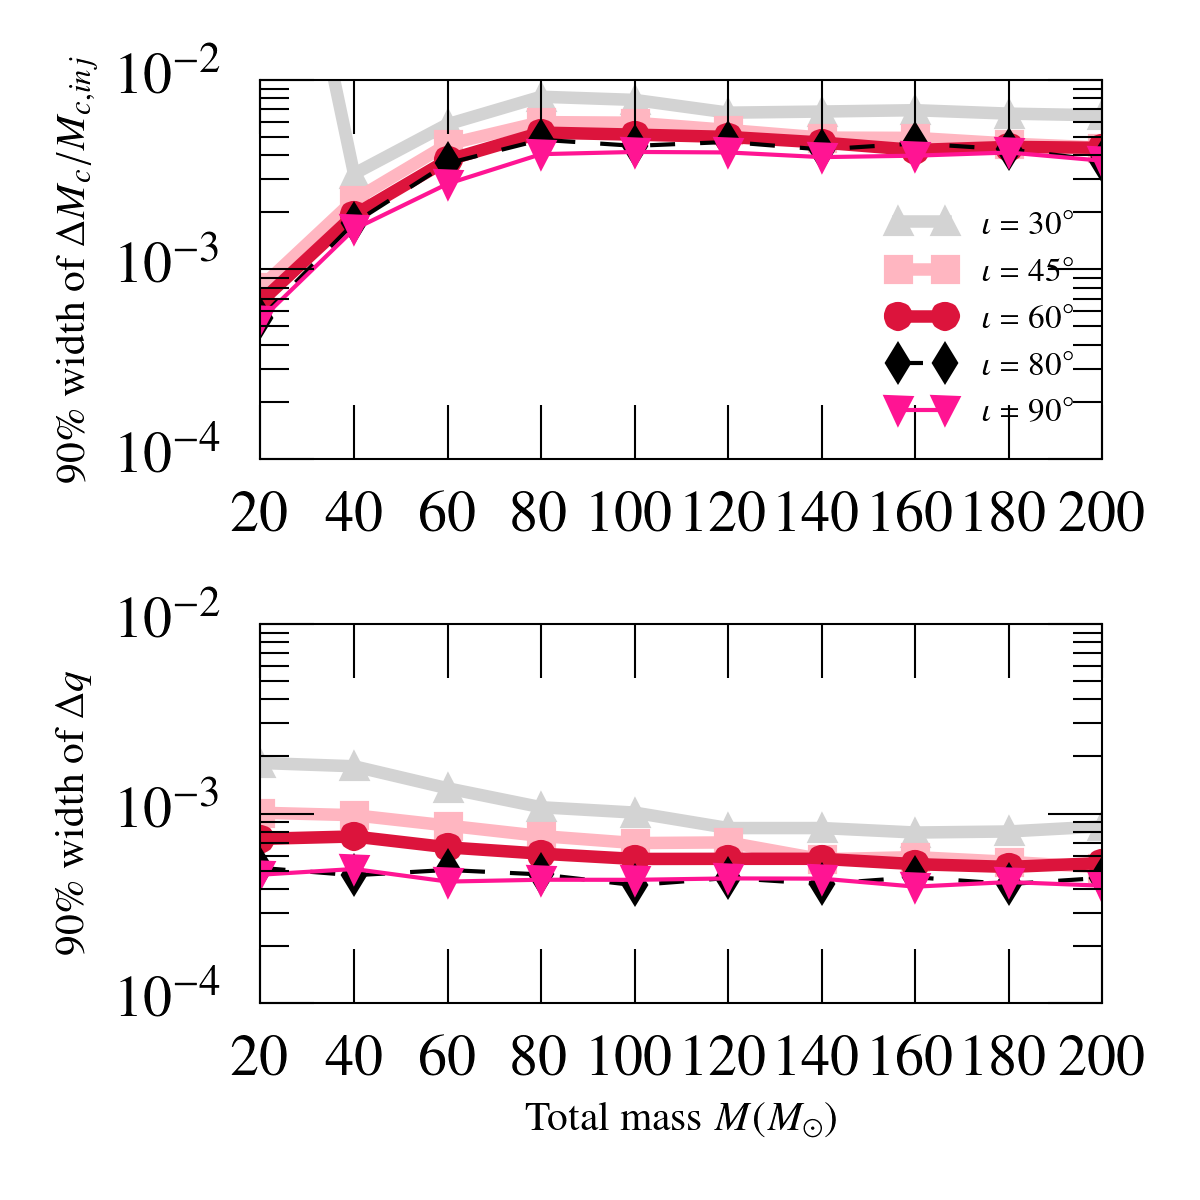
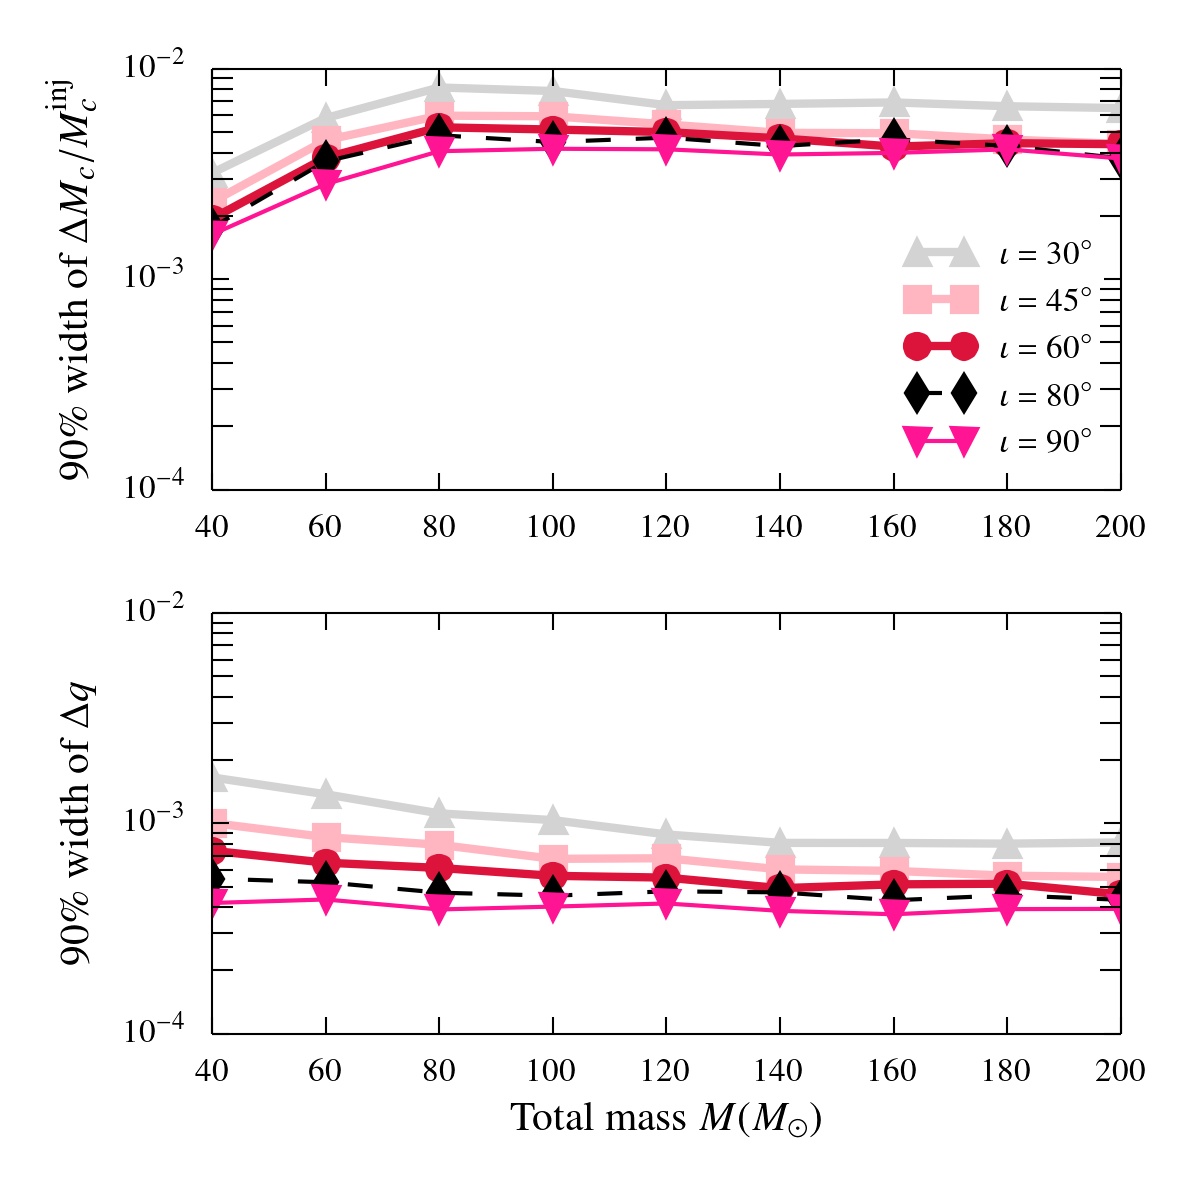
updated figure 3b

diff --git a/scripts/mk_statisticalerror_plot.py b/scripts/mk_statisticalerror_plot.py
@@ -1,7 +1,8 @@
 import matplotlib as mpl
 mpl.use('Agg')
-import numpy as np
+import os, sys, numpy as np
 import matplotlib.pyplot as plt
+sys.path.insert(0, '../src')
 import plotsettings
 from matplotlib import rc
 mpl.rc('text.latex', preamble = '\usepackage{txfonts}')
@@ -26,7 +27,7 @@ from scipy import interpolate
 col = 'k'
 
 fname_vec_q = ['../data/90_percent_width_9dim_DeltaMcbyMcinj_diffq_abhi.txt', '../data/90_percent_width_9dim_Deltaq_diffq_abhi.txt']
-fname_vec_M = ['../data/90_percent_width_9dim_DeltaMcbyMcinj_diffM_abhi.txt', '../data/90_percent_width_9dim_Deltaq_diffM_abhi.txt']
+fname_vec_M = ['../data/90_percent_width_9dim_DeltaMcbyMcinj_diffM_abhi.txt', '../data/90_percent_width_9dim_Deltaq_diffM_abhi_4000iternations.txt']
 
 plt.figure(figsize=(4,4))
 
@@ -52,8 +53,8 @@ for i, fname in enumerate(fname_vec_q):
 
 ax.set_xlabel('Mass ratio $q$', labelpad=5, fontsize=10)
 plt.tight_layout()
-plt.savefig('../papers/intro_paper/figs/fig3a_9dim_dmcbymcinj_dq_abhi.png', dpi=300)
-plt.savefig('../papers/intro_paper/figs/fig3a_9dim_dmcbymcinj_dq_abhi.pdf')
+#plt.savefig('../papers/intro_paper/figs/fig3a_9dim_dmcbymcinj_dq_abhi.png', dpi=300)
+#plt.savefig('../papers/intro_paper/figs/fig3a_9dim_dmcbymcinj_dq_abhi.pdf')
 plt.close()
 
 plt.figure(figsize=(4,4))
@@ -70,18 +71,17 @@ for i, fname in enumerate(fname_vec_M):
         ax.semilogy(M, i_90, color='deeppink', marker='v',  markeredgecolor='deeppink', label='$\iota = 90^{\circ}$', alpha=1, lw=1)
 
         if i == 0:
+		ax.set_xlim(40,200)
 		ax.set_ylim(1e-4,1e-2)
-		ax.set_ylabel('90\% width of $\Delta M_c/M_{c,inj}$', labelpad=5, fontsize=10)
+		ax.set_ylabel('90\% width of $\Delta M_c/M_c^{\mathrm{inj}}$', labelpad=5, fontsize=10)
 		plt.legend(loc='best', frameon=False, fontsize=8)
-		ax.set_xlim(min(M), max(M))
         else:
 		ax.set_ylim(1e-4, 1e-2)
-		ax.set_xlim(min(M), max(M))
 		ax.set_ylabel('90\% width of $\Delta q$', labelpad=7, fontsize=10)
+		ax.set_xlim(40,200)
 
 ax.set_xlabel('Total mass $M (M_{\odot})$', labelpad=5, fontsize=10)
-ax.set_xlim(min(M), max(M))
 plt.tight_layout()
-plt.savefig('../papers/intro_paper/figs/fig3b_9dim_dmcbymcinj_dq_abhi.png', dpi=300)
-plt.savefig('../papers/intro_paper/figs/fig3b_9dim_dmcbymcinj_dq_abhi.pdf')
+plt.savefig('../papers/intro_paper/figs/fig3b_9dim_dmcbymcinj_dq_abhi_4000iter.png', dpi=300)
+plt.savefig('../papers/intro_paper/figs/fig3b_9dim_dmcbymcinj_dq_abhi_4000iter.pdf')
 plt.close()
